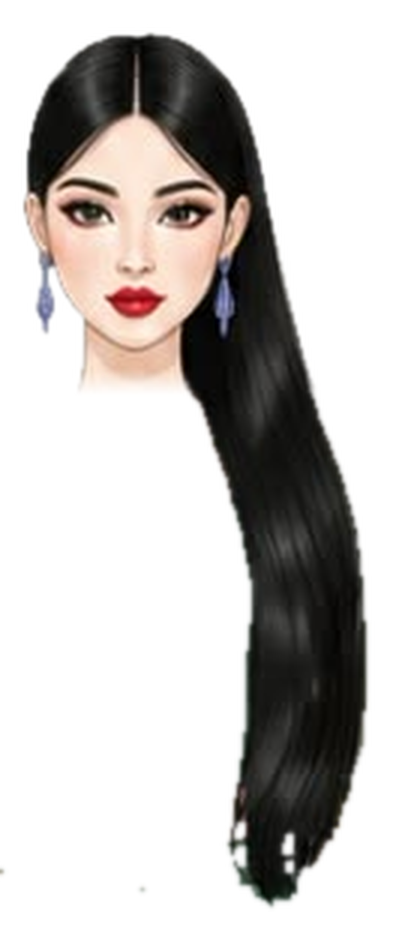
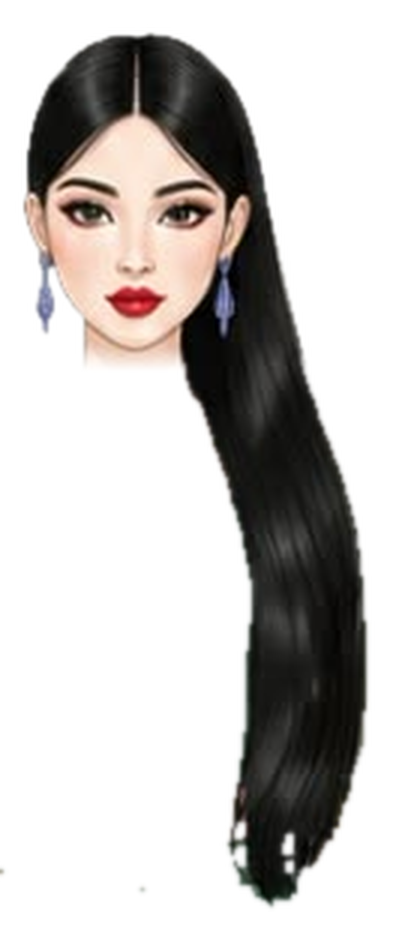
Match body proportions to the reference design
- Larger head with a shorter neck; back-view head scaled to match
- Stretch-pose arms lengthened so the hands reach the hips, with sloped
  shoulders and elbow-length flared sleeves
- Move the hanging rod clear of the right hand
- Clip bell sleeve fold lines to the sleeve

Claude-Session: https://claude.ai/code/session_01TYPUusnuhtBJ7Z9aDFcSGW

Changed region(s): [[0.1739, 0.3671, 0.4638, 0.4283], [0.7246, 0.3671, 0.7536, 0.4283]]

diff --git a/src/components/MannequinStage.tsx b/src/components/MannequinStage.tsx
@@ -12,6 +12,9 @@ import {
   ARM_OUT_L,
   A_POSE_ANGLE,
   A_POSE_PIVOT,
+  ARM_REACH_SCALE,
+  ARM_REACH_START,
+  ARM_WRIST_X,
   BACK_CUTS,
   BASE_ZOOM,
   BODY,
@@ -164,19 +167,24 @@ export const MannequinStage: React.FC<MannequinStageProps> = ({
     if (sId === 'cap') return { reach: 28, hemDrop: 2, maxSag: 1 };
     if (sId === 'short') return { reach: 50, hemDrop: 2, maxSag: 1 };
     if (sId === 'elbow') return { reach: 74, hemDrop: 2, maxSag: 1 };
-    if (sId === 'flared') return { reach: 80, hemDrop: 24, maxSag: 8 };
+    if (sId === 'flared') return { reach: 72, hemDrop: 30, maxSag: 8 };
     if (sId === 'threequarter') return { reach: 94, hemDrop: 2, maxSag: 1 };
     if (sId === 'bell') return { reach: 110, hemDrop: 44, maxSag: 16 };
     if (sId === 'puff') return { reach: 56, hemDrop: 14, maxSag: 10 };
     return { reach: 114, hemDrop: 3, maxSag: 2 };
   };
 
-  // Stretch pose: the left arm swings down from the shoulder into a relaxed A-pose.
+  // Stretch pose: the left arm lengthens to full reach (the base outstretched arm is
+  // drawn short) and swings down from the shoulder into a relaxed A-pose.
   // Points at the armpit stay put and the bend ramps up along the upper arm,
   // so the sleeve's inner edge settles against the bodice side seam.
   const bendArm = (pts: number[][]): number[][] =>
-    pts.map(([x, y]) => {
-      const t = Math.min(1, Math.max(0, (A_POSE_PIVOT[0] - 20 - x) / 30));
+    pts.map(([x0, y]) => {
+      // Stretch the arm between the shoulder and the wrist; the hand keeps its size
+      const x = x0 >= ARM_REACH_START ? x0
+        : x0 >= ARM_WRIST_X ? ARM_REACH_START - (ARM_REACH_START - x0) * ARM_REACH_SCALE
+        : ARM_REACH_START - (ARM_REACH_START - ARM_WRIST_X) * ARM_REACH_SCALE - (ARM_WRIST_X - x0);
+      const t = Math.min(1, Math.max(0, (A_POSE_PIVOT[0] - 6 - x) / 36));
       const a = -A_POSE_ANGLE * t * t * (3 - 2 * t);
       const dx = x - A_POSE_PIVOT[0];
       const dy = y - A_POSE_PIVOT[1];
@@ -1116,7 +1124,7 @@ interface BlouseDetailsResult {
         {/* Atelier Hanging Rod with a spare dupatta */}
         <div
           className="absolute top-[196px] w-[104px] h-[330px] transition-all duration-500 pointer-events-none"
-          style={{ left: isBack ? '6px' : '352px' }}
+          style={{ left: isBack ? '-36px' : '392px' }}
         >
           {/* Sheer cloth folded over the rod, gold zari border on the edges */}
           <div
@@ -2541,6 +2549,7 @@ interface BlouseDetailsResult {
               </g>
 
               {/* Gravity Fold Creases (Natural Draping Folds at Elbow & Forearm) */}
+              <g clipPath="url(#sleeve-clip-l)">
               {gravityFoldPaths('l').map((d, idx) => (
                 <path
                   key={`fold-l-${idx}`}
@@ -2552,6 +2561,8 @@ interface BlouseDetailsResult {
                   strokeLinecap="round"
                 />
               ))}
+              </g>
+              <g clipPath="url(#sleeve-clip-r)">
               {gravityFoldPaths('r').map((d, idx) => (
                 <path
                   key={`fold-r-${idx}`}
@@ -2563,6 +2574,7 @@ interface BlouseDetailsResult {
                   strokeLinecap="round"
                 />
               ))}
+              </g>
 
               {/* Sleeve Cuffs / Hem Border */}
               {cuffPts('l') && (

diff --git a/src/components/AvatarRenderer.tsx b/src/components/AvatarRenderer.tsx
@@ -64,7 +64,7 @@ export const AvatarRenderer: React.FC<AvatarRendererProps> = ({
   // 2. BACK VIEW HEAD: Rendered when viewMode === 'back'
   if (layer === 'backHead' || (isBack && layer === 'face')) {
     return (
-      <g id="avatar-back-head">
+      <g id="avatar-back-head" transform="translate(230 140) scale(1.18) translate(-230 -140)">
         {/* Rear Head Crown Volume */}
         <ellipse cx="230" cy="80" rx="32" ry="38" fill="url(#hair-dark-grad)" stroke="#121010" strokeWidth="1.2" />
         
@@ -97,10 +97,10 @@ export const AvatarRenderer: React.FC<AvatarRendererProps> = ({
     return (
       <g id="avatar-face-head">
         {/* Neck Column */}
-        <path d="M 219 104 L 217 146 Q 230 152 243 146 L 241 104 Z" fill={skinTone} />
+        <path d="M 216 118 L 215 146 Q 230 152 245 146 L 244 118 Z" fill={skinTone} />
         {/* Soft neck sides flowing into the shoulders */}
-        <path d="M 218.5 124 Q 218 140 210 148" fill="none" stroke="#2a1f18" strokeWidth="0.8" opacity="0.35" strokeLinecap="round" />
-        <path d="M 241.5 124 Q 242 140 250 148" fill="none" stroke="#2a1f18" strokeWidth="0.8" opacity="0.35" strokeLinecap="round" />
+        <path d="M 216 134 Q 216 142 209 148" fill="none" stroke="#2a1f18" strokeWidth="0.8" opacity="0.35" strokeLinecap="round" />
+        <path d="M 244 134 Q 244 142 251 148" fill="none" stroke="#2a1f18" strokeWidth="0.8" opacity="0.35" strokeLinecap="round" />
       </g>
     );
   }
@@ -114,10 +114,10 @@ export const AvatarRenderer: React.FC<AvatarRendererProps> = ({
         {/* Painted head, face and long hair from the reference artwork */}
         <image
           href="/assets/dori-face.png"
-          x={194.9}
-          y={34.9}
-          width={102.1}
-          height={233.8}
+          x={188.5}
+          y={30.6}
+          width={120.5}
+          height={275.9}
           preserveAspectRatio="none"
         />
       </g>

diff --git a/src/data/geometry.ts b/src/data/geometry.ts
@@ -742,6 +742,10 @@ export const ARM_OUT_R: number[][] = mir(ARM_OUT_L);
 // Stretch pose swings the outstretched arms down into an A-pose around the shoulder joint
 export const A_POSE_ANGLE = (55 * Math.PI) / 180;
 export const A_POSE_PIVOT: [number, number] = [170, 162];
+// The outstretched arm is lengthened from the shoulder to the wrist by this factor
+export const ARM_REACH_SCALE = 1.9;
+export const ARM_REACH_START = 150;
+export const ARM_WRIST_X = 44;
 
 export function colorMix(base: string, tint: 'white' | 'black', pct: number): string {
   return `color-mix(in oklab, ${base}, ${tint} ${Math.max(0, Math.min(100, Math.round(pct)))}%)`;
